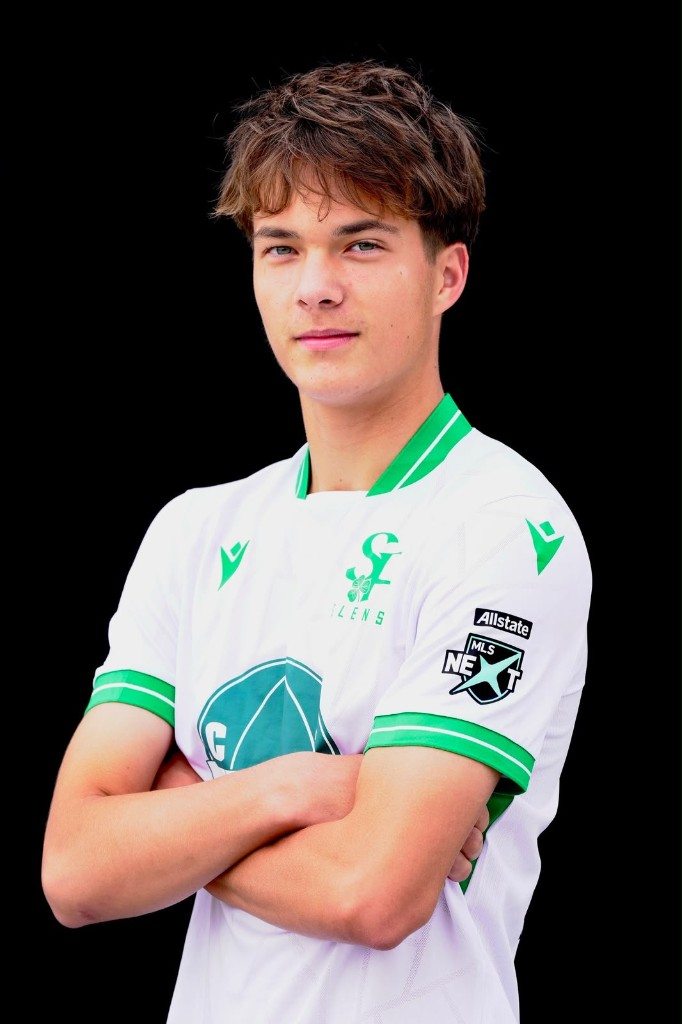
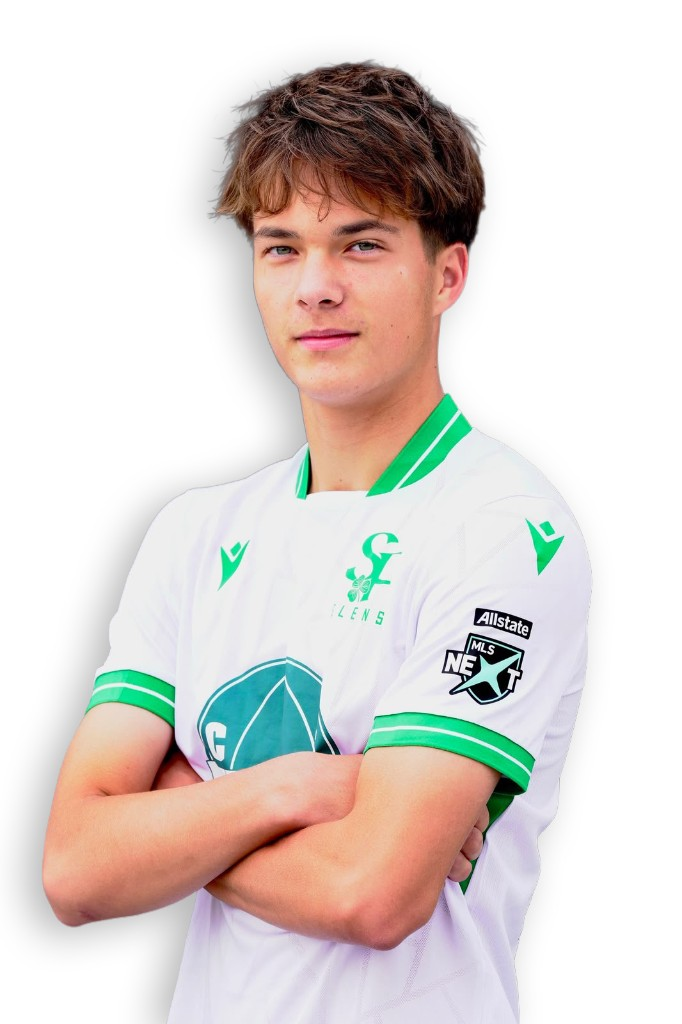
Use the new cutout portrait on the scout page.
The white-background photo replaces the black studio shot in the hero.

diff --git a/index.html b/index.html
@@ -9,7 +9,7 @@
   <meta property="og:title" content="Osku Strandman · Class of 2028 · SF Glens">
   <meta property="og:description" content="Defensive and attacking midfielder. 6'1&quot;, right foot. SF Glens MLS NEXT Homegrown. Developed at FC Jazz in Finland.">
   <meta property="og:type" content="profile">
-  <meta property="og:image" content="images/portrait.jpg">
+  <meta property="og:image" content="images/portrait.jpg?v=2">
   <link rel="icon" href="favicon.svg" type="image/svg+xml">
   <link rel="preconnect" href="https://fonts.googleapis.com">
   <link rel="preconnect" href="https://fonts.gstatic.com" crossorigin>
@@ -43,7 +43,7 @@
           </div>
         </div>
         <figure class="hero-photo">
-          <img src="images/portrait.jpg" width="682" height="1024" alt="Osku Strandman in the white and green SF Glens jersey, arms crossed, against a black background.">
+          <img src="images/portrait.jpg?v=2" width="682" height="1024" alt="Osku Strandman in the white and green SF Glens jersey, arms crossed.">
           <figcaption class="rating">
             <strong>7.9</strong>
             <p>Eyeball overall<span>Better than 96% of that sample</span></p>

diff --git a/styles.css b/styles.css
@@ -233,16 +233,17 @@ h1 span {
 .hero-photo {
   margin: 0;
   position: relative;
-  background: #050605;
+  background: #fff;
 }
 
 .hero-photo img {
   display: block;
   width: 100%;
   height: auto;
-  max-height: 78vh;
-  object-fit: cover;
-  object-position: center 18%;
+  max-height: none;
+  object-fit: contain;
+  object-position: center center;
+  background: #fff;
 }
 
 .rating {
@@ -689,15 +690,15 @@ h2 {
   }
 
   .hero-photo {
-    background: transparent;
+    background: #fff;
   }
 
   .hero-photo img {
     width: 100%;
-    height: min(78vh, 760px);
-    max-height: none;
-    object-fit: cover;
-    object-position: center 16%;
+    height: auto;
+    max-height: min(78vh, 760px);
+    object-fit: contain;
+    object-position: center center;
   }
 
   .rating {
